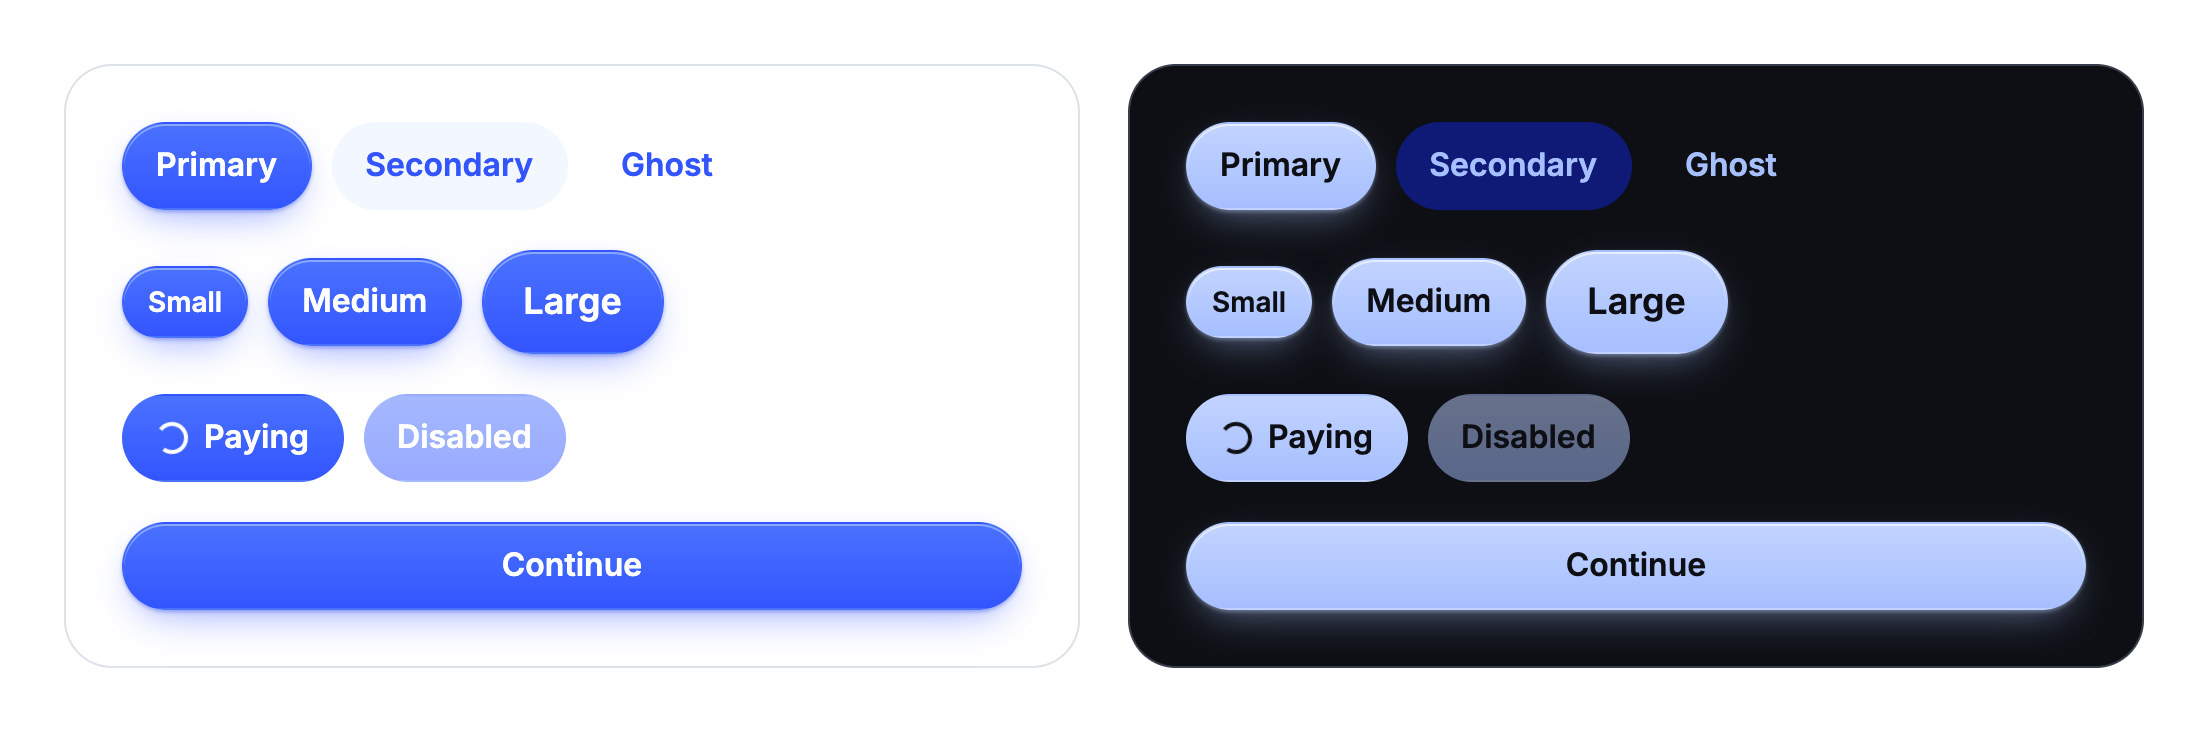
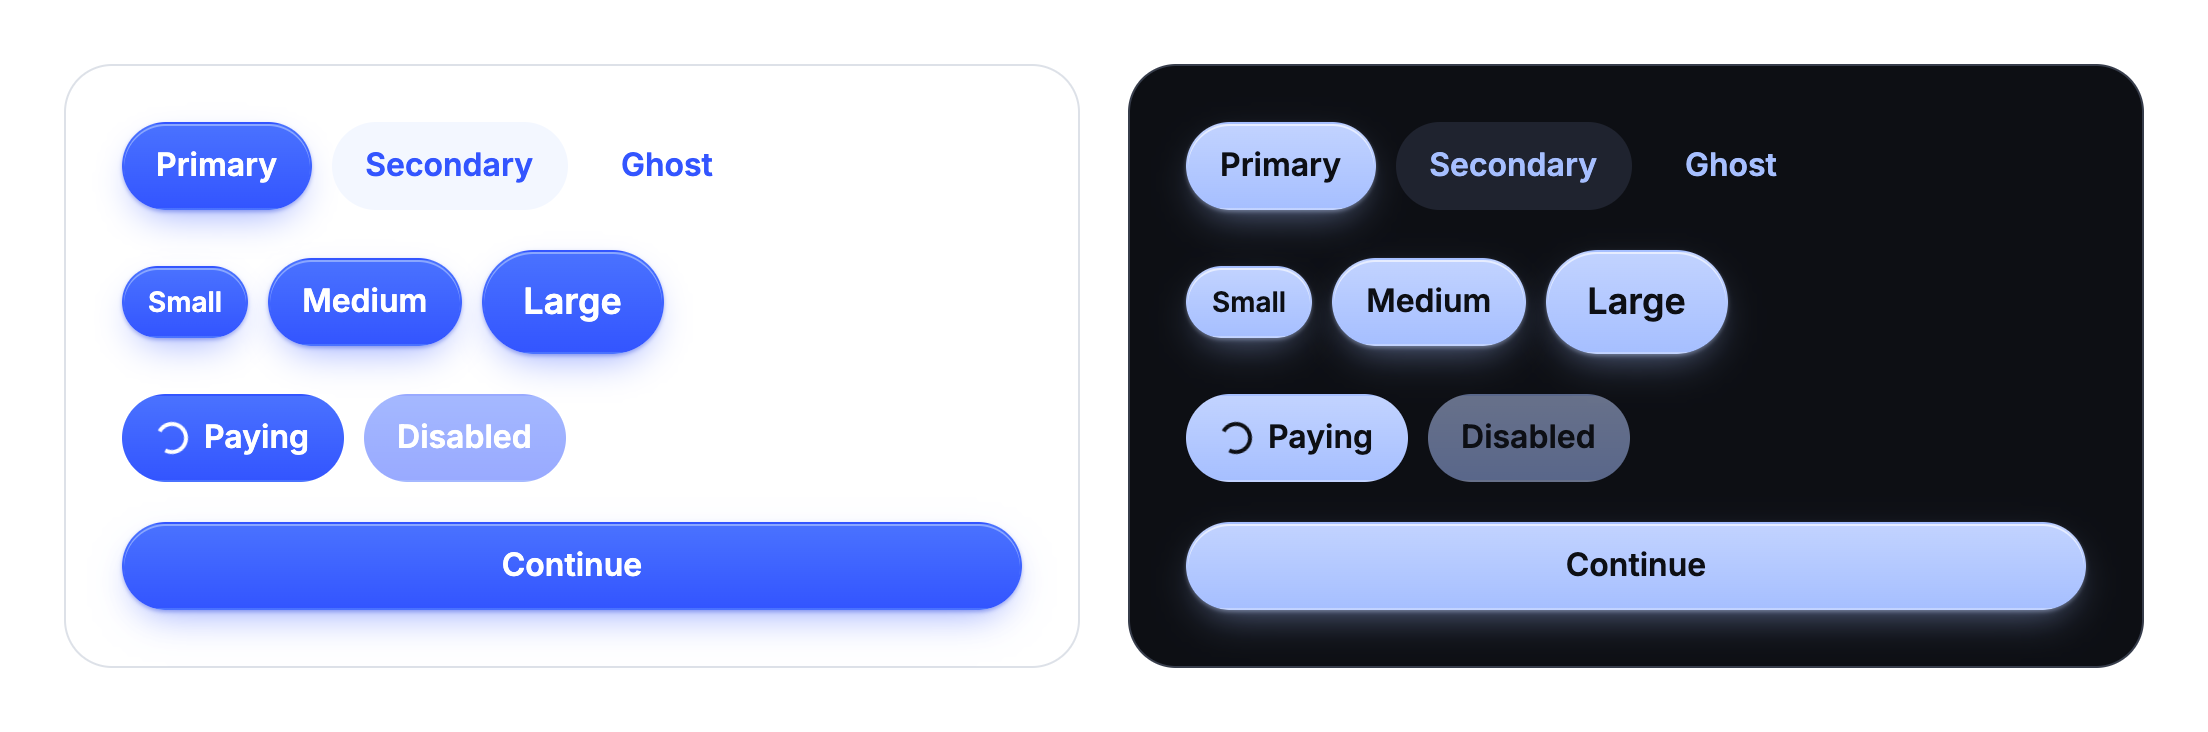
Polish: calmer dark buttons, AA-safe hover, brand promo in dark, VoiceOver can close dialogs, larger card stack targets

Changed region(s): [[0.625, 0.1503, 0.75, 0.3005]]

diff --git a/packages/ui/src/PromoBanner/PromoBanner.native.tsx b/packages/ui/src/PromoBanner/PromoBanner.native.tsx
@@ -6,10 +6,11 @@ import { promoColors, type PromoBannerProps } from './PromoBanner.shared';
 /** A card for offers and announcements, on the brand gradient */
 export function PromoBanner({ eyebrow, title, description, action, onDismiss, art, testID }: PromoBannerProps) {
   const theme = useTheme();
-  const { colors, components, space, radius, borderWidth, typography } = theme;
+  const { components, space, radius, borderWidth, typography } = theme;
   const { promo, button } = components;
-  const tones = promoColors(colors);
-  const onBrand = { color: colors.textOnPrimary, maxWidth: '62%' as const };
+  // Like a bank card, a promo keeps its light-scheme brand colors in both schemes
+  const tones = promoColors(theme.definition.themes.light.colors);
+  const onBrand = { color: tones.ink, maxWidth: '62%' as const };
 
   // The art is a drawing, so its sizes are fixed pixels
   const card = (
@@ -57,7 +58,7 @@ export function PromoBanner({ eyebrow, title, description, action, onDismiss, ar
           style={[
             textStyleFor(theme, 'caption'),
             fontFor(theme, 'semibold'),
-            { color: colors.textOnPrimary, letterSpacing: typography.letterSpacing.wide, textTransform: 'uppercase' },
+            { color: tones.ink, letterSpacing: typography.letterSpacing.wide, textTransform: 'uppercase' },
           ]}
         >
           {eyebrow}
@@ -77,10 +78,10 @@ export function PromoBanner({ eyebrow, title, description, action, onDismiss, ar
             justifyContent: 'center',
             paddingHorizontal: button.sizes.sm.paddingX,
             borderRadius: radius.full,
-            backgroundColor: colors.textOnPrimary,
+            backgroundColor: tones.ink,
           }}
         >
-          <Text style={[textStyleFor(theme, 'label'), fontFor(theme, 'semibold'), { color: colors.primaryPressed }]}>{action.label}</Text>
+          <Text style={[textStyleFor(theme, 'label'), fontFor(theme, 'semibold'), { color: tones.actionInk }]}>{action.label}</Text>
         </Pressable>
       ) : null}
       {onDismiss ? (
@@ -90,7 +91,7 @@ export function PromoBanner({ eyebrow, title, description, action, onDismiss, ar
           onPress={onDismiss}
           style={{ position: 'absolute', top: space.sm, right: space.sm, width: space['2xl'], height: space['2xl'], alignItems: 'center', justifyContent: 'center' }}
         >
-          <Text style={{ color: colors.textOnPrimary, fontSize: typography.fontSize.md }}>✕</Text>
+          <Text style={{ color: tones.ink, fontSize: typography.fontSize.md }}>✕</Text>
         </Pressable>
       ) : null}
     </View>

diff --git a/packages/ui/src/PromoBanner/PromoBanner.css.ts b/packages/ui/src/PromoBanner/PromoBanner.css.ts
@@ -2,11 +2,11 @@ const textOnBrand = 'max-width:62%;margin:0';
 
 // The art is a drawing, so its sizes are fixed pixels
 export const promoCss = `
-.ds-promo{position:relative;overflow:hidden;isolation:isolate;display:grid;gap:var(--ds-space-xs);justify-items:start;align-content:start;box-sizing:border-box;min-height:var(--ds-promo-min-height);padding:var(--ds-promo-padding);border-radius:var(--ds-promo-radius);background:var(--ds-promo-background);color:var(--ds-color-text-on-primary);font-family:var(--ds-font-sans)}
+.ds-promo{position:relative;overflow:hidden;isolation:isolate;display:grid;gap:var(--ds-space-xs);justify-items:start;align-content:start;box-sizing:border-box;min-height:var(--ds-promo-min-height);padding:var(--ds-promo-padding);border-radius:var(--ds-promo-radius);background:var(--ds-promo-background);color:var(--ds-promo-ink);font-family:var(--ds-font-sans)}
 .ds-promo__eyebrow{font-size:var(--ds-font-size-xs);line-height:var(--ds-line-height-xs);font-weight:var(--ds-font-weight-semibold);letter-spacing:var(--ds-letter-spacing-wide);text-transform:uppercase}
 .ds-promo__title{${textOnBrand};font-size:var(--ds-font-size-xl);line-height:var(--ds-line-height-xl);font-weight:var(--ds-font-weight-semibold)}
 .ds-promo__text{${textOnBrand};font-size:var(--ds-font-size-sm);line-height:var(--ds-line-height-sm)}
-.ds-promo__action{margin-top:var(--ds-space-sm);min-height:var(--ds-button-sm-height);padding:0 var(--ds-button-sm-padding-x);border:0;border-radius:var(--ds-radius-full);background:var(--ds-color-text-on-primary);color:var(--ds-color-primary-pressed);font:inherit;font-size:var(--ds-font-size-sm);font-weight:var(--ds-font-weight-semibold);cursor:pointer}
+.ds-promo__action{margin-top:var(--ds-space-sm);min-height:var(--ds-button-sm-height);padding:0 var(--ds-button-sm-padding-x);border:0;border-radius:var(--ds-radius-full);background:var(--ds-promo-ink);color:var(--ds-promo-action-ink);font:inherit;font-size:var(--ds-font-size-sm);font-weight:var(--ds-font-weight-semibold);cursor:pointer}
 .ds-promo__art{position:absolute;right:0;bottom:0;z-index:-1;pointer-events:none}
 .ds-promo__card{position:relative;display:block;width:150px;height:96px;margin:0 -14px -22px 0;border:var(--ds-border-width-thin) solid var(--ds-promo-art-border);border-radius:var(--ds-radius-lg);background:var(--ds-promo-art-fill);transform:rotate(-12deg);-webkit-backdrop-filter:blur(var(--ds-glass-blur-sm));backdrop-filter:blur(var(--ds-glass-blur-sm))}
 .ds-promo__card::before,.ds-promo__card::after{content:'';position:absolute;left:16px;background:var(--ds-promo-art-detail)}

diff --git a/packages/ui/src/Button/Button.shared.ts b/packages/ui/src/Button/Button.shared.ts
@@ -1,4 +1,4 @@
-import { alpha, hexToOklch, mix, oklchToHex, type SemanticColors } from '@moksha-ui/tokens';
+import { alpha, contrastRatio, hexToOklch, mix, oklchToHex, type SemanticColors } from '@moksha-ui/tokens';
 
 export type ButtonVariant = 'primary' | 'secondary' | 'ghost';
 
@@ -31,11 +31,20 @@ const lighten = (hex: string, amount: number) => {
   return oklchToHex({ ...color, l: Math.min(1, color.l + amount) });
 };
 
+/** The strongest of these mixes of the brand into `base` (strongest first) that keeps brand text at AA on it */
+const wash = (primary: string, base: string, weights: number[]) =>
+  weights.map((weight) => mix(primary, base, weight)).find((color) => contrastRatio(primary, color) >= 4.5) ?? base;
+
 /** Depth for buttons: a primary lit from the top with a glow in the brand color, and a soft tinted secondary */
-export function buttonDepth({ primary, primaryPressed, primarySubtle }: SemanticColors) {
+export function buttonDepth({ primary, primaryPressed, primarySubtle, background }: SemanticColors) {
+  // In dark mode the subtle brand step is a heavy navy; a light wash of the brand over the page reads calmer,
+  // like iOS tinted buttons. Light mode keeps the pale brand step
+  const dark = hexToOklch(background).l < 0.5;
   return {
     primaryFill: `linear-gradient(180deg, ${lighten(primary, 0.06)}, ${primary})`,
     primaryShadow: `inset 0 1px 0 ${alpha(lighten(primary, 0.3), 0.6)}, 0 1px 2px ${alpha(primaryPressed, 0.35)}, 0 8px 20px -8px ${alpha(primary, 0.6)}`,
-    secondaryHover: mix(primary, primarySubtle, 0.1),
+    tint: dark ? wash(primary, background, [0.14, 0.1, 0.06]) : primarySubtle,
+    // A fixed 10% hover dropped brand text below AA for most brands in light mode, so it backs off as needed
+    secondaryHover: dark ? wash(primary, background, [0.22, 0.18, 0.14]) : wash(primary, primarySubtle, [0.1, 0.08, 0.06, 0.04, 0.02]),
   };
 }

diff --git a/packages/ui/src/Display.test.tsx b/packages/ui/src/Display.test.tsx
@@ -6,11 +6,11 @@ import { avatarColors, initials } from './Avatar/Avatar.shared';
 
 afterEach(cleanup);
 
-const names = ['Shivastu Shrivastava', 'Asha', 'Ravi Kumar', 'Meera N', 'Zoya Ali', 'Arjun Mehta', 'Kabir', 'Priya Sharma', 'Dev', 'Isha Patel'];
+const names = ['Shivastu Shrivastava', 'Neha', 'Ravi Kumar', 'Meera N', 'Zoya Ali', 'Arjun Mehta', 'Kabir', 'Priya Sharma', 'Dev', 'Isha Patel'];
 
 describe('Avatar (web)', () => {
   it('takes initials from the first and last word', () => {
-    expect(names.slice(0, 3).map(initials)).toEqual(['SS', 'A', 'RK']);
+    expect(names.slice(0, 3).map(initials)).toEqual(['SS', 'N', 'RK']);
     expect(initials('  ')).toBe('');
   });
 
@@ -22,7 +22,7 @@ describe('Avatar (web)', () => {
         expect(contrastRatio(look.ink, stop), `${name} ${stop}`).toBeGreaterThanOrEqual(4.5);
       }
     }
-    expect(avatarColors('Asha', themes.light.colors).background).not.toBe(avatarColors('Ravi', themes.light.colors).background);
+    expect(avatarColors('Neha', themes.light.colors).background).not.toBe(avatarColors('Ravi', themes.light.colors).background);
   });
 
   it('is an image named by the person and status, and falls back to initials when the photo fails', () => {
@@ -37,8 +37,8 @@ describe('Avatar (web)', () => {
 
   it('groups people with "+N", read out once', () => {
     render(<AvatarGroup people={names.slice(0, 6).map((name) => ({ name }))} />);
-    const group = screen.getByRole('group', { name: '6 people: Shivastu Shrivastava, Asha, Ravi Kumar, Meera N, Zoya Ali, Arjun Mehta' });
-    expect(group.textContent).toBe('SSARKMN+2');
+    const group = screen.getByRole('group', { name: '6 people: Shivastu Shrivastava, Neha, Ravi Kumar, Meera N, Zoya Ali, Arjun Mehta' });
+    expect(group.textContent).toBe('SSNRKMN+2');
     expect(screen.queryAllByRole('img')).toHaveLength(0);
   });
 });

diff --git a/packages/ui/src/Button/Button.test.tsx b/packages/ui/src/Button/Button.test.tsx
@@ -1,6 +1,8 @@
 import { cleanup, fireEvent, render, screen } from '@testing-library/react';
 import { afterEach, describe, expect, it, vi } from 'vitest';
 import { Button, ThemeProvider, createTheme, useTheme } from '../index';
+import { contrastRatio, defaultTheme, hexToOklch, type ColorScheme } from '@moksha-ui/tokens';
+import { buttonDepth } from './Button.shared';
 
 afterEach(cleanup);
 
@@ -125,5 +127,25 @@ describe('ThemeProvider (web)', () => {
       </ThemeProvider>
     );
     expect(screen.getByText(`dark ${teal.themes.dark.colors.primary}`)).toBeTruthy();
+  });
+});
+
+describe('button tints', () => {
+  const themes = [defaultTheme, ...['#E11D48', '#F97316', '#FACC15', '#0E7C66', '#06B6D4', '#7C3AED', '#111111', '#F5F5F5'].map((brandColor) => createTheme({ brandColor }))];
+
+  it('keep secondary text at AA on its tint and its hover, in every theme', () => {
+    for (const theme of themes) {
+      for (const scheme of ['light', 'dark'] as ColorScheme[]) {
+        const { colors } = theme.themes[scheme];
+        const { tint, secondaryHover } = buttonDepth(colors);
+        expect(contrastRatio(colors.primary, tint), `tint, ${scheme}`).toBeGreaterThanOrEqual(4.5);
+        expect(contrastRatio(colors.primary, secondaryHover), `hover, ${scheme}`).toBeGreaterThanOrEqual(4.5);
+      }
+    }
+  });
+
+  it('are a quiet wash in dark mode, far less saturated than the old navy step', () => {
+    const { colors } = defaultTheme.themes.dark;
+    expect(hexToOklch(buttonDepth(colors).tint).c).toBeLessThan(hexToOklch(colors.primarySubtle).c / 2);
   });
 });

diff --git a/packages/ui/src/Button/Button.css.ts b/packages/ui/src/Button/Button.css.ts
@@ -18,10 +18,10 @@ export const buttonCss = `
 /* Hover fades a pressed-color layer in under the label. Swapping the gradient for a color can't animate and flickers */
 .ds-button--primary::before{content:'';position:absolute;inset:0;z-index:-1;border-radius:inherit;background:var(--ds-color-primary-pressed);opacity:0;transition:opacity var(--ds-spring-snappy-duration) var(--ds-spring-snappy)}
 .ds-button--primary:not(:disabled):hover::before,.ds-button--primary:not(:disabled):active::before{opacity:1}
-.ds-button--secondary{background:var(--ds-color-primary-subtle);color:var(--ds-color-primary)}
+.ds-button--secondary{background:var(--ds-button-tint);color:var(--ds-color-primary)}
 .ds-button--secondary:not(:disabled):hover,.ds-button--secondary:not(:disabled):active{background:var(--ds-button-secondary-hover)}
 .ds-button--ghost{background:transparent;color:var(--ds-color-primary)}
-.ds-button--ghost:not(:disabled):hover,.ds-button--ghost:not(:disabled):active{background:var(--ds-color-primary-subtle)}
+.ds-button--ghost:not(:disabled):hover,.ds-button--ghost:not(:disabled):active{background:var(--ds-button-tint)}
 ${sizes}
 .ds-spinner{width:1em;height:1em;box-sizing:border-box;border:var(--ds-border-width-thick) solid currentColor;border-right-color:transparent;border-radius:50%;animation:ds-spin .7s linear infinite}
 @keyframes ds-spin{to{transform:rotate(360deg)}}

diff --git a/packages/ui/src/theme/css.ts b/packages/ui/src/theme/css.ts
@@ -161,7 +161,8 @@ export function themeCss(definition: ThemeDefinition, id: string) {
       themes[name].shadows
     )}${vars('button', buttonDepth(themes[name].colors))}${vars('field', fieldColors(themes[name].colors))}${vars('modal', dialogColors(themes[name].colors))}${vars('surface', surfaceColors(themes[name].colors))}${vars('text-tone', textTones(themes[name].colors))}${vars('skeleton', skeletonColors(themes[name].colors))}${Object.entries(solidTones(themes[name].colors)).map(([tone, colors]) => vars(`badge-${tone}`, colors)).join('')}${Object.entries(softTones(themes[name].colors)).map(([tone, colors]) => vars(`tag-${tone}`, colors)).join('')}${vars('chip', chipColors(themes[name].colors))}${vars('progress', progressColors(themes[name].colors))}${vars('control', controlColors(themes[name].colors))}${vars('transaction', transactionColors(themes[name].colors))}${vars('snackbar', snackbarColors(themes[name].colors))}${bannerTones.map((tone) => vars(`banner-${tone}`, bannerColors(tone, themes[name].colors, banner.tint))).join('')}${vars(
       'promo',
-      promoColors(themes[name].colors)
+      // Like a bank card, a promo keeps its light-scheme brand colors in both schemes
+      promoColors(themes.light.colors)
     )}}`;
 
   return `[data-ds-theme="${id}"]{${shared}}${scheme('light')}${scheme('dark')}`;

diff --git a/packages/ui/src/IconButton/IconButton.css.ts b/packages/ui/src/IconButton/IconButton.css.ts
@@ -14,7 +14,7 @@ ${sizes}
 .ds-icon-button--solid{background:var(--ds-button-primary-fill);box-shadow:var(--ds-button-primary-shadow);color:var(--ds-color-text-on-primary)}
 .ds-icon-button--solid::before{content:'';position:absolute;inset:0;z-index:-1;border-radius:inherit;background:var(--ds-color-primary-pressed);opacity:0;transition:opacity var(--ds-spring-snappy-duration) var(--ds-spring-snappy)}
 .ds-icon-button--solid:not(:disabled):hover::before,.ds-icon-button--solid:not(:disabled):active::before{opacity:1}
-.ds-icon-button--soft{background:var(--ds-color-primary-subtle);color:var(--ds-color-primary)}
+.ds-icon-button--soft{background:var(--ds-button-tint);color:var(--ds-color-primary)}
 .ds-icon-button--soft:not(:disabled):hover{background:var(--ds-button-secondary-hover)}
 .ds-icon-button--glass{background:var(--ds-color-glass-surface);border-color:var(--ds-color-glass-border);color:var(--ds-color-text);-webkit-backdrop-filter:blur(var(--ds-glass-blur-sm)) saturate(var(--ds-glass-saturation));backdrop-filter:blur(var(--ds-glass-blur-sm)) saturate(var(--ds-glass-saturation))}
 @supports not ((backdrop-filter:blur(1px)) or (-webkit-backdrop-filter:blur(1px))){.ds-icon-button--glass{${glassFallback}}}

diff --git a/packages/ui/src/PromoBanner/PromoBanner.shared.ts b/packages/ui/src/PromoBanner/PromoBanner.shared.ts
@@ -15,10 +15,16 @@ export interface PromoBannerProps {
   testID?: string;
 }
 
-/** Brand gradient with a soft light in the top corner, and the glass card art. The gradient is CSS that React Native also reads */
+/**
+ * Brand gradient with a soft light in the top corner, and the glass card art. The gradient is CSS that React Native
+ * also reads. Pass the light scheme's colors in both schemes: dark mode's pale primary turned the card pastel with dark
+ * text, while a promo, like a bank card, should keep the deep brand color and white text
+ */
 export function promoColors(colors: SemanticColors) {
   const light = mix(colors.textOnPrimary, colors.primary, 0.3);
   return {
+    ink: colors.textOnPrimary,
+    actionInk: colors.primaryPressed,
     background: `radial-gradient(120% 140% at 100% 0%, ${light} 0%, ${alpha(light, 0)} 55%), linear-gradient(135deg, ${colors.primaryPressed}, ${colors.primary})`,
     artFill: alpha(colors.textOnPrimary, 0.16),
     artBorder: alpha(colors.textOnPrimary, 0.4),

diff --git a/packages/ui/src/Dialog/Overlays.native.test.tsx b/packages/ui/src/Dialog/Overlays.native.test.tsx
@@ -69,6 +69,16 @@ describe('Dialog (native)', () => {
     expect(onClose).toHaveBeenCalledTimes(1);
   });
 
+  it('closes from the VoiceOver escape gesture, only when dismissible', async () => {
+    const onClose = jest.fn();
+    const { rerender } = await render(<Dialog open title="Block card?" onClose={onClose} dismissible={false} testID="panel" />);
+    await fireEvent(screen.getByTestId('panel'), 'accessibilityEscape');
+    expect(onClose).not.toHaveBeenCalled();
+    await rerender(<Dialog open title="Block card?" onClose={onClose} testID="panel" />);
+    await fireEvent(screen.getByTestId('panel'), 'accessibilityEscape');
+    expect(onClose).toHaveBeenCalledTimes(1);
+  });
+
   it('becomes a bottom sheet with a handle', async () => {
     await render(<Dialog open presentation="sheet" title="Choose account" onClose={jest.fn()} testID="panel" />);
     expect(screen.getByTestId('panel')).toHaveStyle({

diff --git a/packages/ui/src/Shell.test.tsx b/packages/ui/src/Shell.test.tsx
@@ -69,7 +69,7 @@ describe('CardStack', () => {
 
   it('counts depth from the front card, wrapping around, and steps each card back', () => {
     expect([0, 1, 2].map((position) => depthOf(position, 1, 3))).toEqual([2, 0, 1]);
-    expect(stackLook(2)).toEqual({ y: -32, scale: 0.9, brightness: 0.76 });
+    expect(stackLook(2)).toEqual({ y: -48, scale: 0.9, brightness: 0.76 });
   });
 
   it('shows the front card, offers the rest as buttons, and announces a change (web)', () => {
@@ -83,6 +83,6 @@ describe('CardStack', () => {
     expect(onIndexChange).toHaveBeenCalledWith(2);
     expect(screen.getByRole('status').textContent).toBe('Showing Travel •• 7712');
     expect(items[2]!.style.transform).toBe('translateY(0px) scale(1)');
-    expect(items[0]!.style.transform).toBe('translateY(-16px) scale(0.95)');
+    expect(items[0]!.style.transform).toBe('translateY(-24px) scale(0.95)');
   });
 });

diff --git a/apps/docs/src/Primitives.stories.tsx b/apps/docs/src/Primitives.stories.tsx
@@ -126,7 +126,7 @@ export const TagsAndChips: Story = {
   },
 };
 
-const team = ['Shivastu Shrivastava', 'Asha Rao', 'Ravi Kumar', 'Meera Nair', 'Zoya Ali', 'Arjun Mehta', 'Kabir Singh'];
+const team = ['Shivastu Shrivastava', 'Neha Gupta', 'Ravi Kumar', 'Meera Nair', 'Zoya Ali', 'Arjun Mehta', 'Kabir Singh'];
 
 export const PeopleAndProgress: Story = {
   render: function PeopleStory() {
@@ -135,7 +135,7 @@ export const PeopleAndProgress: Story = {
       <Stack gap="xl" align="start">
         <Stack direction="row" gap="lg" align="center">
           <Avatar name="Shivastu Shrivastava" size="xl" status="online" />
-          <Avatar name="Asha Rao" size="lg" />
+          <Avatar name="Neha Gupta" size="lg" />
           <Avatar name="Ravi Kumar" />
           <Avatar name="Meera Nair" size="sm" status="busy" />
           <AvatarGroup people={team.map((name) => ({ name }))} />
